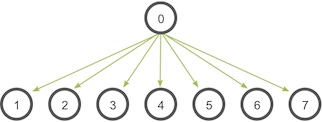
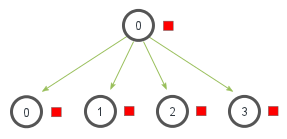
Fix images

Changed region(s): [[0.0, 0.0, 1.0, 1.0], [0.3066, 0.541, 0.3345, 0.5902], [0.2787, 0.5902, 0.3066, 0.6393]]

diff --git a/_episodes/05-collectives.md b/_episodes/05-collectives.md
@@ -74,9 +74,9 @@ Scatter is a collective operation that is very similar to broadcast. Scatter inv
 in a communicator. The primary difference between broadcast and scatter is small but important. Broadcast sends the same piece of data to all 
 processes while scatter sends chunks of an array to different processes. Check out the illustration below for further clarification.
 
-![broadcast vs scatter]({{ page.root }}/fig/04-broadcastvsscatter.png "broadcast vs scatter")
+![scatter]({{ page.root }}/fig/04-scatter.png "scatter")
 
-In the illustration, the broadcast takes a single data element at the root process (the red box) and copies it to all other processes. However
+In the previous illustration, the broadcast takes a single data element at the root process (the red box) and copies it to all other processes. However
 the scatter takes an array of elements and distributes the elements in the order of process rank. The first element (in red) goes to process zero, 
 the second element (in green) goes to process one, and so on. Although the root process (process zero) contains the entire array of data, 
 the scatter operation will copy the appropriate element into the receiving buffer of the process. 
